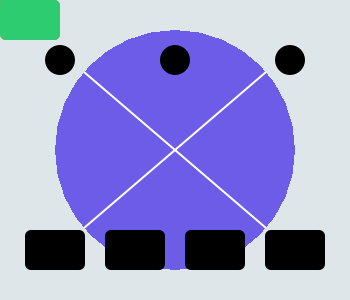
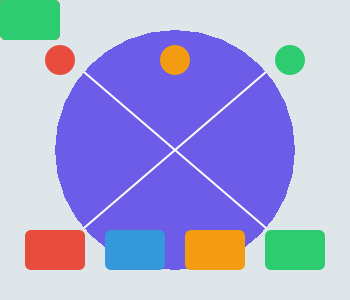
Fix <use> element not inheriting presentation attributes like fill
Propagate inheritable attributes (fill, stroke, etc.) from <use> to the
referenced node before drawing, then restore after. Fixes shapes defined
in <defs> rendering as black when colors are specified on the <use> element.

Fixes #86

diff --git a/src/main/java/io/brunoborges/jairosvg/draw/Defs.java b/src/main/java/io/brunoborges/jairosvg/draw/Defs.java
@@ -440,6 +440,19 @@ public final class Defs {
         if (refNode == null)
             return;
 
+        // Propagate inheritable presentation attributes from <use> to the referenced
+        // node (SVG spec: <use> acts as parent for inheritance). Save originals to
+        // restore after drawing.
+        var notInherited = Node.notInheritedAttributes();
+        Map<String, String> saved = new HashMap<>();
+        for (var entry : node.entries()) {
+            String key = entry.getKey();
+            if (!notInherited.contains(key) && !refNode.has(key)) {
+                saved.put(key, null);
+                refNode.set(key, entry.getValue());
+            }
+        }
+
         var savedTransform = surface.context.getTransform();
         surface.context.translate(x, y);
 
@@ -458,6 +471,11 @@ public final class Defs {
         }
 
         surface.context.setTransform(savedTransform);
+
+        // Restore: remove attributes that were injected
+        for (var key : saved.keySet()) {
+            refNode.remove(key);
+        }
     }
 
     /** Handle filter preparation. */
@@ -539,20 +557,20 @@ public final class Defs {
 
         for (int i = 0; i < sourcePixels.length; i++) {
             int src = sourcePixels[i];
-                int srcA = (src >>> 24) & 0xFF;
-                if (srcA == 0) {
-                    continue;
-                }
-                int m = maskPixels[i];
-                int ma = (m >>> 24) & 0xFF;
-                int mr = (m >>> 16) & 0xFF;
-                int mg = (m >>> 8) & 0xFF;
-                int mb = m & 0xFF;
-                double luminance = (LUMINANCE_RED_COEFF * mr + LUMINANCE_GREEN_COEFF * mg + LUMINANCE_BLUE_COEFF * mb)
-                        / 255.0;
-                double maskAlpha = (ma / 255.0) * luminance;
-                int outA = (int) Math.round(srcA * maskAlpha);
-                outputPixels[i] = (outA << 24) | (src & 0x00FFFFFF);
+            int srcA = (src >>> 24) & 0xFF;
+            if (srcA == 0) {
+                continue;
+            }
+            int m = maskPixels[i];
+            int ma = (m >>> 24) & 0xFF;
+            int mr = (m >>> 16) & 0xFF;
+            int mg = (m >>> 8) & 0xFF;
+            int mb = m & 0xFF;
+            double luminance = (LUMINANCE_RED_COEFF * mr + LUMINANCE_GREEN_COEFF * mg + LUMINANCE_BLUE_COEFF * mb)
+                    / 255.0;
+            double maskAlpha = (ma / 255.0) * luminance;
+            int outA = (int) Math.round(srcA * maskAlpha);
+            outputPixels[i] = (outA << 24) | (src & 0x00FFFFFF);
         }
         BufferedImage masked = new BufferedImage(width, height, BufferedImage.TYPE_INT_ARGB);
         masked.setRGB(0, 0, width, height, outputPixels, 0, width);

diff --git a/src/main/java/io/brunoborges/jairosvg/dom/Node.java b/src/main/java/io/brunoborges/jairosvg/dom/Node.java
@@ -64,6 +64,14 @@ public class Node {
             "height", "id", "mask", "opacity", "overflow", "rotate", "stop-color", "stop-opacity", "style", "transform",
             "transform-origin", "viewBox", "width", "x", "y", "dx", "dy", "{http://www.w3.org/1999/xlink}href", "href");
 
+    /**
+     * Returns the set of attribute keys that are NOT inherited from parent to
+     * child.
+     */
+    public static Set<String> notInheritedAttributes() {
+        return NOT_INHERITED_ATTRIBUTES;
+    }
+
     private static final Set<String> COLOR_ATTRIBUTES = Set.of("fill", "flood-color", "lighting-color", "stop-color",
             "stroke");
 

diff --git a/comparison/README.md b/comparison/README.md
@@ -271,7 +271,7 @@ _JairoSVG is **3–31× faster** than EchoSVG and **1–2.6× faster** than Cair
 
 ### PNG Output File Sizes
 
-JairoSVG produces **8.1% smaller** PNGs overall compared to CairoSVG (using the same zlib compression level 6):
+JairoSVG produces **7.8% smaller** PNGs overall compared to CairoSVG (using the same zlib compression level 6):
 
 | Test Case      |    JairoSVG |    CairoSVG | Difference |
 | -------------- | ----------: | ----------: | ---------: |
@@ -284,7 +284,7 @@ JairoSVG produces **8.1% smaller** PNGs overall compared to CairoSVG (using the 
 | Opacity blend  |       8,409 |       9,853 |     −14.7% |
 | Viewbox aspect |      11,616 |      11,444 |      +1.5% |
 | CSS styling    |       8,153 |      10,816 |     −24.6% |
-| Use and defs   |       5,074 |       9,712 |     −47.8% |
+| Use and defs   |       5,646 |       9,712 |     −41.9% |
 | Star polygon   |       6,228 |       8,911 |     −30.1% |
 | Nested svg     |      11,322 |      11,880 |      −4.7% |
 | Patterns       |       9,598 |      11,095 |     −13.5% |
@@ -294,7 +294,7 @@ JairoSVG produces **8.1% smaller** PNGs overall compared to CairoSVG (using the 
 | Filters ⚠     |      31,059 |       8,520 |    +264.5% |
 | Embedded image |       9,995 |      21,228 |     −52.9% |
 | Text advanced  |      20,003 |      23,864 |     −16.2% |
-| **Total**      | **207,235** | **225,400** |  **−8.1%** |
+| **Total**      | **207,807** | **225,400** |  **−7.8%** |
 
 > **⚠ Filters/Masks:** Where CairoSVG produces much smaller output, it is because CairoSVG **does not render** certain features correctly — filter effects (blur, drop-shadow) are silently skipped, and masks are rendered without gradient/circle content. This results in simpler images that compress better. JairoSVG renders these effects correctly, producing visually accurate but larger PNGs.
 
